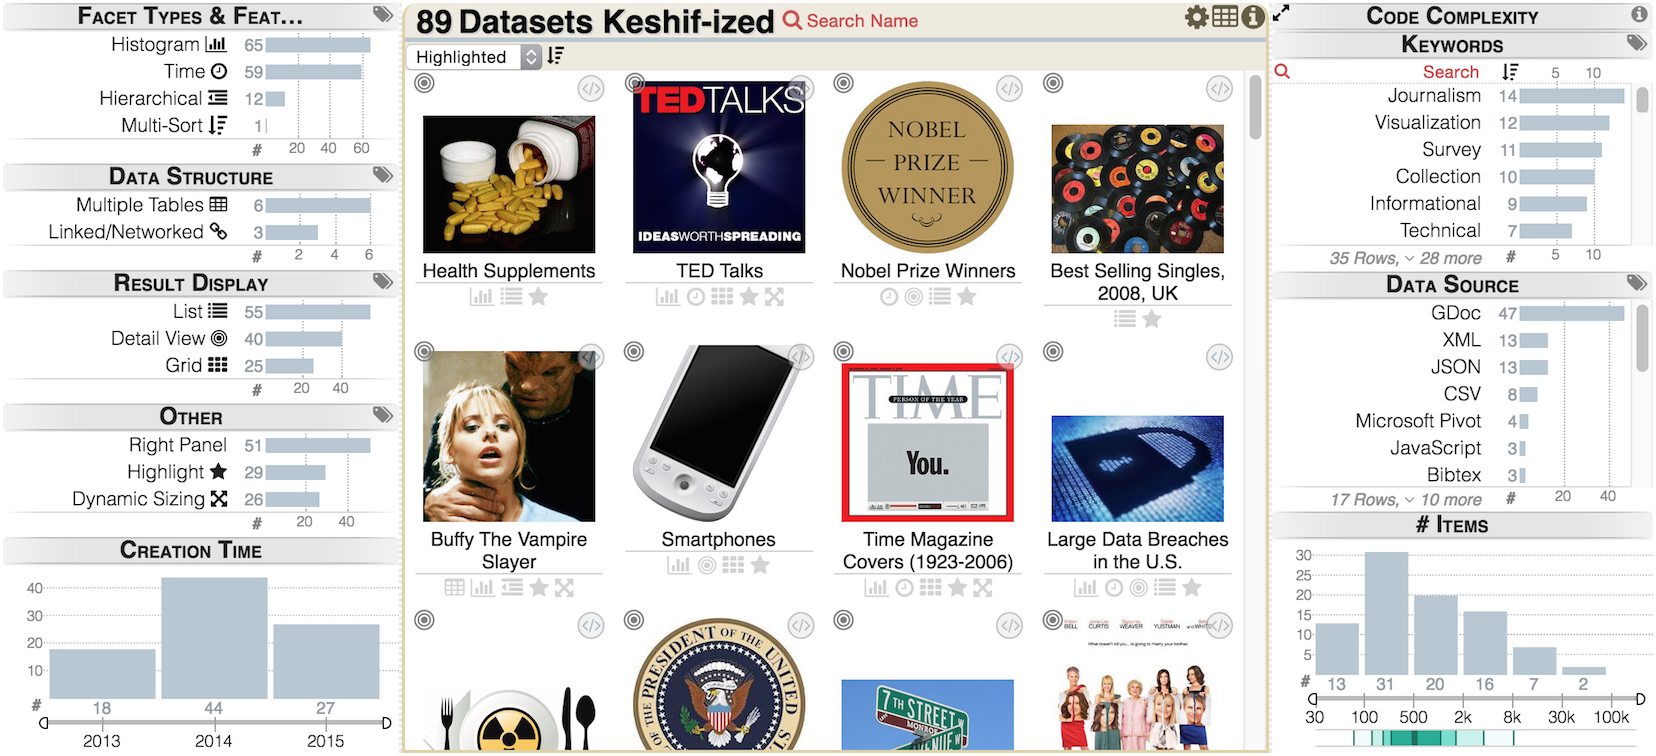
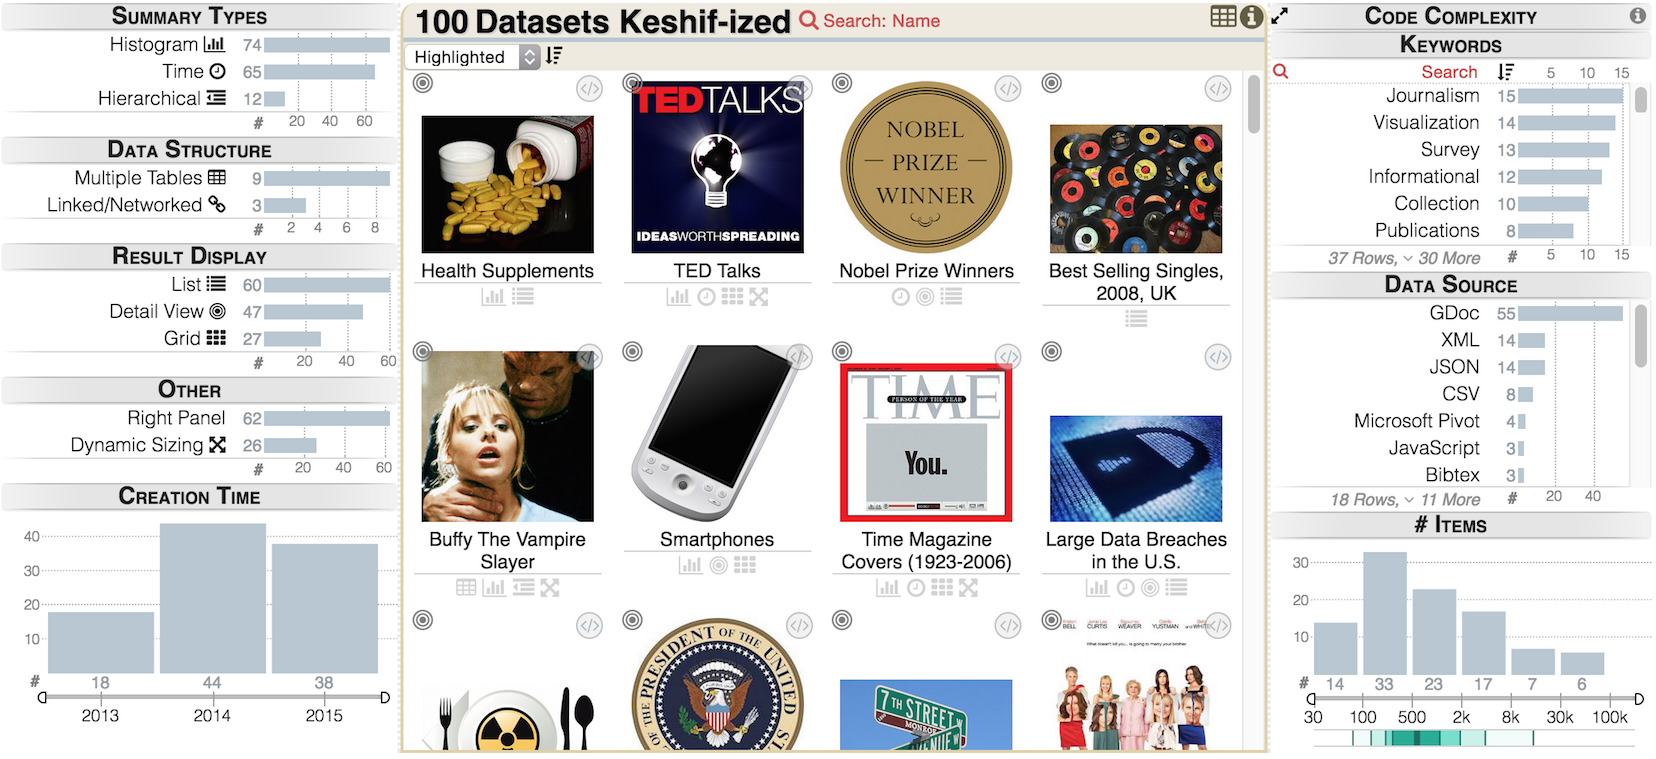
Keshif index page is updated

diff --git a/index.html b/index.html
@@ -56,7 +56,7 @@ browser = new kshf.Browser({
             }
         },{ title: "Keywords", layout: 'right',
             attribMap: function(){ return this.Keywords.split("+"); }
-        },{ title: "Facet Types &amp; Features",
+        },{ title: "Summary Types",
             attribMap: function(){
                 var r = [];
                 if(this['Facets - Histogram']>0)
@@ -65,8 +65,6 @@ browser = new kshf.Browser({
                     r.push("Hierarchical <span class='fa fa-outdent'></span>");
                 if(this['Has Time'])
                     r.push("Time <span class='fa fa-clock-o'></span>");
-                if(this['Multi-Sort'])
-                    r.push("Multi-Sort <span class='fa fa-sort-amount-desc'></span>");
                 return r;
             }
         },{ title: "Data Structure",
@@ -100,7 +98,7 @@ browser = new kshf.Browser({
             }
         },{ title: "Data Source", layout: 'right',
             attribMap: function(){ return this.Source.split("+"); }
-        },{ title: "# Items", showPercentile: true, layout: 'right', 
+        },{ title: "# Items", showPercentile: true, layout: 'right', intervalScale: "log"
         },{ title: "Creation Time", collapsed: false,
             attribMap: function(){ return this.Authored.getFullYear(); }
         }
